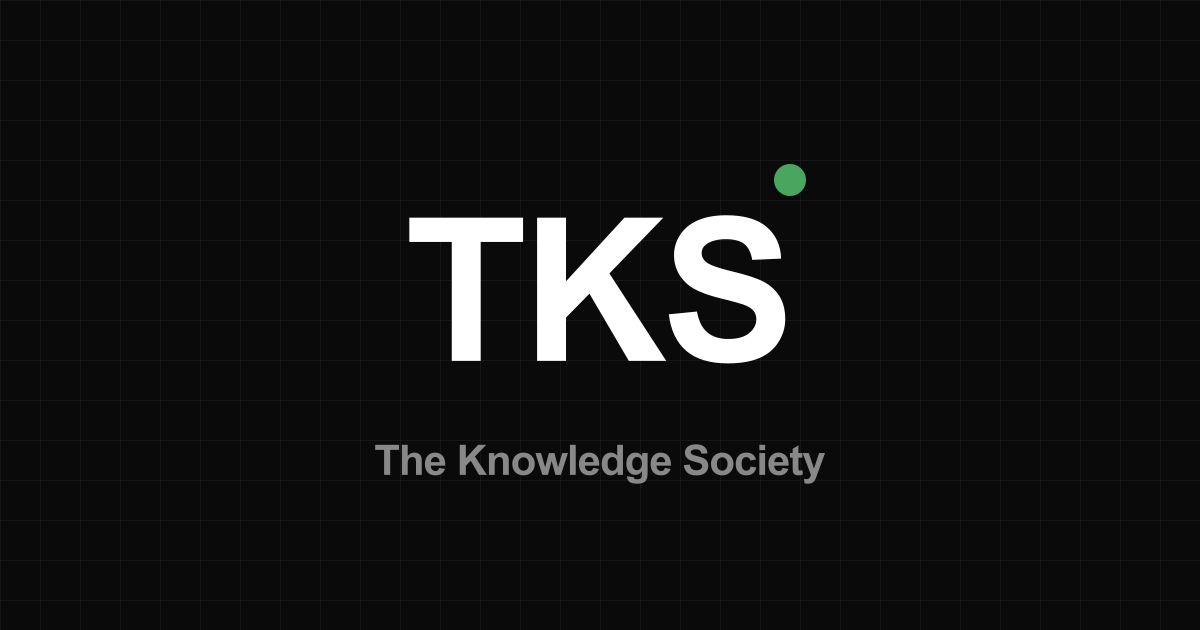
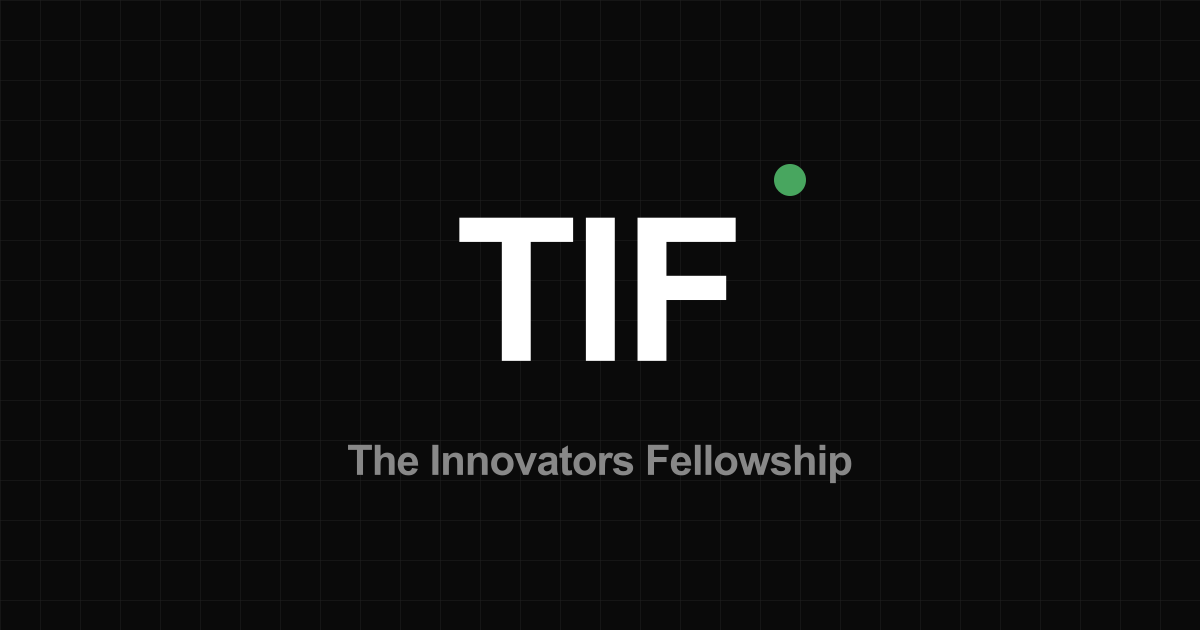
fix: rename TKS to TIF across SEO and fix vite.config manualChunks

Changed region(s): [[0.3392, 0.3317, 0.6783, 0.6032], [0.2775, 0.6937, 0.7092, 0.7841]]

diff --git a/index.html b/index.html
@@ -5,24 +5,23 @@
     <link rel="icon" type="image/svg+xml" href="/favicon.svg">
     <link rel="icon" type="image/png" sizes="192x192" href="/manifest-icon-192.maskable.png">
     <link rel="icon" type="image/png" sizes="512x512" href="/manifest-icon-512.maskable.png">
-    <link rel="apple-touch-icon" href="/apple-icon-180.png">
-    <meta name="apple-mobile-web-app-capable" content="yes">
-    
+
     <!-- Open Graph Meta Tags -->
-    <meta property="og:title" content="The Knowledge Society (TKS) | Innovators Fellowship" />
-    <meta property="og:description" content="TIF participants transcend theory, engineering functional prototypes alongside leading organizations." />
-    <meta property="og:image" content="/og-image.png" />
-    <meta property="og:type" content="website" />
-    <meta property="og:url" content="https://tks.world" />
+    <meta property="og:title" content="TIF | The Innovators Fellowship">
+    <meta property="og:description" content="TIF participants transcend theory, engineering functional prototypes alongside leading organizations.">
+    <meta property="og:image" content="/og-image.png">
+    <meta property="og:type" content="website">
+    <meta property="og:url" content="https://tif.world">
 
     <!-- Twitter Card Meta Tags -->
     <meta name="twitter:card" content="summary_large_image">
-    <meta name="twitter:title" content="The Knowledge Society (TKS) | Innovators Fellowship">
+    <meta name="twitter:title" content="TIF | The Innovators Fellowship">
     <meta name="twitter:description" content="TIF participants transcend theory, engineering functional prototypes alongside leading organizations.">
     <meta name="twitter:image" content="/og-image.png">
-
     <meta name="viewport" content="width=device-width, initial-scale=1.0">
-    <title>The Knowledge Society (TKS)</title>
+    <title>TIF | The Innovators Fellowship</title>
+    <link rel="apple-touch-icon" href="public/apple-icon-180.png">
+    <meta name="apple-mobile-web-app-capable" content="yes">
   </head>
   <body>
     <div id="root"></div>

diff --git a/vite.config.ts b/vite.config.ts
@@ -11,9 +11,12 @@ export default defineConfig({
   build: {
     rollupOptions: {
       output: {
-        manualChunks: {
-          vendor: ['react', 'react-dom', 'react-router-dom'],
-          gsap: ['gsap', '@gsap/react']
+        manualChunks: (id) => {
+          if (id.includes('node_modules')) {
+            if (id.includes('gsap')) return 'gsap';
+            if (id.includes('react')) return 'vendor';
+            return 'vendor'; // generic fallback for other node_modules
+          }
         }
       }
     }
